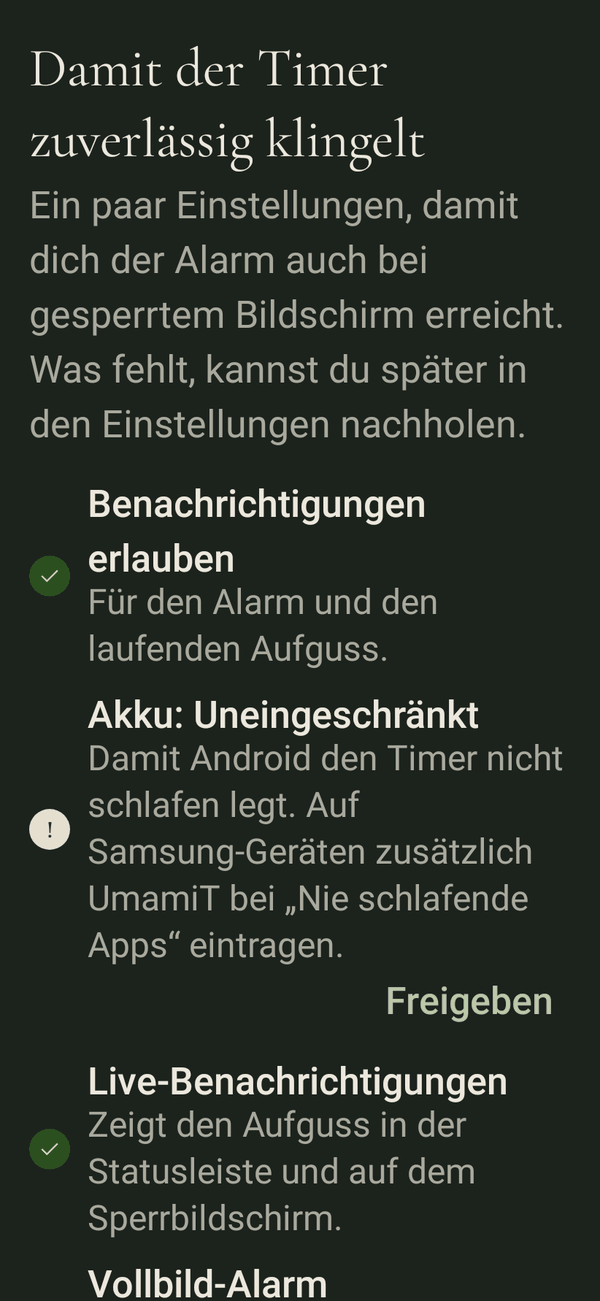
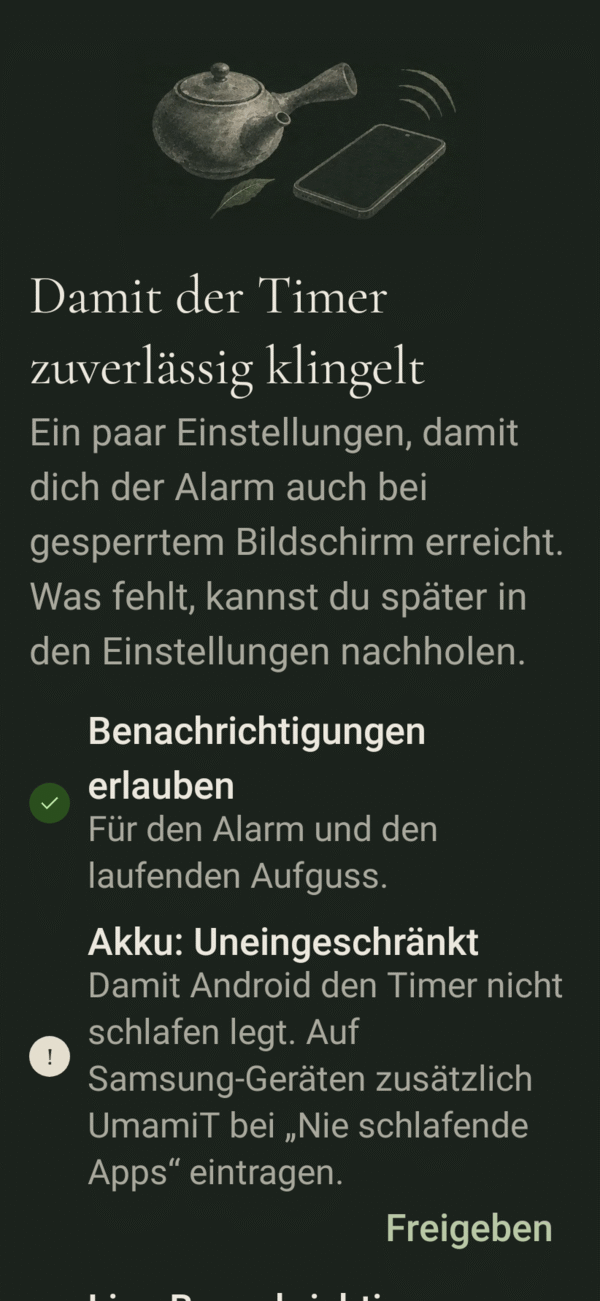
feat: the A5 vignette tops the reliability page, light and dark (#54, SCR-01)
The PO's A5 pair (kyusu and a ringing phone) sits above „Damit der Timer
zuverlässig klingelt": the motif cropped, its paper colour-matched to
the theme background and its edges feathered to transparent, so it has
no visible border. WebP with alpha, nodpi, 29 KB and 18 KB. Reliability
goldens and review renders re-recorded.

Claude-Session: https://claude.ai/code/session_01TEa8Scj1c19uHy7ruNYZYJ

diff --git a/feature/onboarding/src/main/kotlin/com/umamit/feature/onboarding/OnboardingScreen.kt b/feature/onboarding/src/main/kotlin/com/umamit/feature/onboarding/OnboardingScreen.kt
@@ -224,6 +224,9 @@ private fun WelcomeContent(onStart: () -> Unit) {
 /** Where the welcome content starts: on the empty paper, above the landscape (A2). */
 private const val WELCOME_TOP_DP = 96
 
+/** The reliability vignette's share of the page width (A5). */
+private const val RELIABILITY_ART_WIDTH = 0.7f
+
 @Composable
 private fun ReliabilityPage(
     status: ReliabilityStatus,
@@ -238,6 +241,18 @@ private fun ReliabilityPage(
             .windowInsetsPadding(WindowInsets.safeDrawing)
             .padding(horizontal = UmamiSpacing.SideMargin, vertical = UmamiSpacing.Large),
     ) {
+        // The vignette A5 (kyusu and a ringing phone); its paper is the theme's background.
+        Image(
+            painter = painterResource(
+                if (UmamiTheme.isDark) UmamiIcons.ReliabilityDark else UmamiIcons.ReliabilityLight,
+            ),
+            contentDescription = null,
+            modifier = Modifier
+                .align(Alignment.CenterHorizontally)
+                .fillMaxWidth(RELIABILITY_ART_WIDTH),
+            contentScale = ContentScale.FillWidth,
+        )
+        Spacer(Modifier.height(UmamiSpacing.Medium))
         Text(
             text = stringResource(R.string.onboarding_reliability_title),
             modifier = Modifier.semantics { heading() },

diff --git a/core/designsystem/src/main/kotlin/com/umamit/core/designsystem/icon/UmamiIcons.kt b/core/designsystem/src/main/kotlin/com/umamit/core/designsystem/icon/UmamiIcons.kt
@@ -75,6 +75,12 @@ object UmamiIcons {
     /** A2: the welcome landscape in the dark theme. */
     @DrawableRes val WelcomeDark = R.drawable.illustration_welcome_dark
 
+    /** A5: the reliability page's vignette in the light theme (SCR-01). */
+    @DrawableRes val ReliabilityLight = R.drawable.illustration_reliability_light
+
+    /** A5: the reliability vignette in the dark theme. */
+    @DrawableRes val ReliabilityDark = R.drawable.illustration_reliability_dark
+
     // Photos (03 §3.5, docs/design/assets.md)
 
     /** A4: the timer's photo for a tea without one of its own (SCR-05). */

diff --git a/docs/design/assets.md b/docs/design/assets.md
@@ -16,7 +16,7 @@
 | A2 | **Welcome landscape** ✓ delivered | SCR-01 welcome (full bleed behind the content) | PNG, portrait 2:3 (≥ 1024 × 1536): top 55 % empty paper, landscape below; the app crops from the right edge on narrow screens and matches the paper to the theme background | light **and** dark |
 | A3 | **Home header landscape** ✓ delivered | SCR-02 header (no text on it) | PNG, landscape 3:2 (≥ 1536 × 1024) with everything in the middle third of the height: the app crops a ≈ 3.4:1 band (edge to edge, 120 dp) and matches the paper to the theme background | light **and** dark |
 | A4 | **Timer fallback photo** ✓ delivered | SCR-05 top area when a tea has no photo (the quick timer has none, D-069) | PNG, landscape 3:2 (≥ 1536 × 1024): the photo band is full width × 280 dp, centre-cropped, its lower part fading into the background; dark and moody, subject in the upper middle | dark only (timer is always dark) |
-| A5 | **Reliability illustration** | SCR-01 page „Damit der Timer zuverlässig klingelt" | PNG ≥ 1200 × 900, transparent or washi background | light |
+| A5 | **Reliability illustration** ✓ delivered | SCR-01 page „Damit der Timer zuverlässig klingelt" (top, 70 % of the width) | PNG, landscape 3:2 (≥ 1536 × 1024), small motif in the centre; the app crops the motif, matches the paper to the theme background and feathers the edges to transparent | light **and** dark |
 
 ### 1.2 Needed later (M2–M5)
 

diff --git a/docs/design/assets/source/CREDITS.md b/docs/design/assets/source/CREDITS.md
@@ -41,4 +41,5 @@ Tee-Kontor photos or texts (CLAUDE.md rule 3).
 | `core/designsystem/src/main/res/drawable/illustration_placeholder_landscape.xml` | Placeholder landscape for empty states until A1–A5 exist (`docs/design/assets.md`) | Own work | Own work |
 | `core/designsystem/src/main/res/drawable-nodpi/illustration_home_header_{light,dark}.webp` | A3 Start header landscape, light and dark (SCR-02), from `docs/design/assets/source/A3-home-header-{light,dark}.png`: cropped to the mountain band, paper colour-matched to the theme background | AI-generated for the PO (D-029, option C) | Own work |
 | `core/designsystem/src/main/res/drawable-nodpi/illustration_welcome_{light,dark}.webp` | A2 welcome landscape, light and dark (SCR-01), from `docs/design/assets/source/A2-welcome-{light,dark}.png`, paper colour-matched to the theme background | AI-generated for the PO (D-029, option C) | Own work |
+| `core/designsystem/src/main/res/drawable-nodpi/illustration_reliability_{light,dark}.webp` | A5 reliability vignette, light and dark (SCR-01), from `docs/design/assets/source/A5-reliability-{light,dark}.png`: motif cropped, paper colour-matched, edges feathered | AI-generated for the PO (D-029, option C) | Own work |
 | `core/designsystem/src/main/res/drawable-nodpi/photo_timer_fallback.webp` | A4 timer fallback photo (SCR-05), from `docs/design/assets/source/A4-timer-fallback.png` | AI-generated for the PO (D-029, option C) | Own work |

diff --git a/docs/design/review/M1/README.md b/docs/design/review/M1/README.md
@@ -11,7 +11,7 @@ worst-case set. Each state exists in light and dark.
 | Folder | Content |
 |---|---|
 | `home/` | SCR-01 Start: seeded, empty collection, active session, question state (header: A3, light and dark) |
-| `onboarding/` | SCR-02 welcome (full-bleed A2, light and dark) and reliability page |
+| `onboarding/` | SCR-02 welcome (full-bleed A2, light and dark) and reliability page (A5 vignette) |
 | `brew/` | SCR-03 tea picker (incl. empty), SCR-04 setup (kyusu, cold, changed, question), SCR-05 timer in all states (ready, running, pre-alert, paused, alerting incl. rinse, overtime, wash phases, finished, cold and ice; with the fallback photo A4 in the photo slot, which a brew without a readable cover photo also shows on the phone, D-069), SCR-07 quick timer (chips, custom, picker; no photo), Schritte-Sheet (without recipe, with done steps, 30 steps) |
 | `journal/` | SCR-06 journal: with sessions (long German name, photo and placeholder), empty, saved sheet |
 | `collection/` | SCR-08 / SCR-19 *Sammlung* placeholders until M2/M3: *Meine Tees* (where the teas are for now) and *Katalog* (D-069) |
